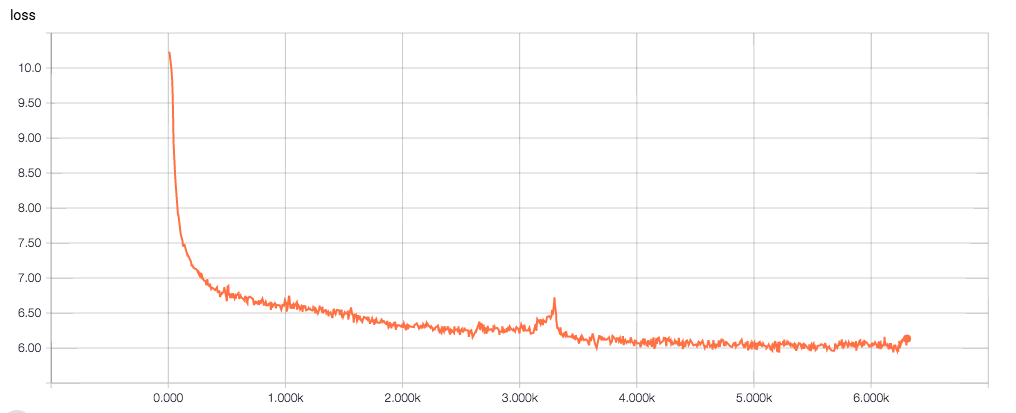
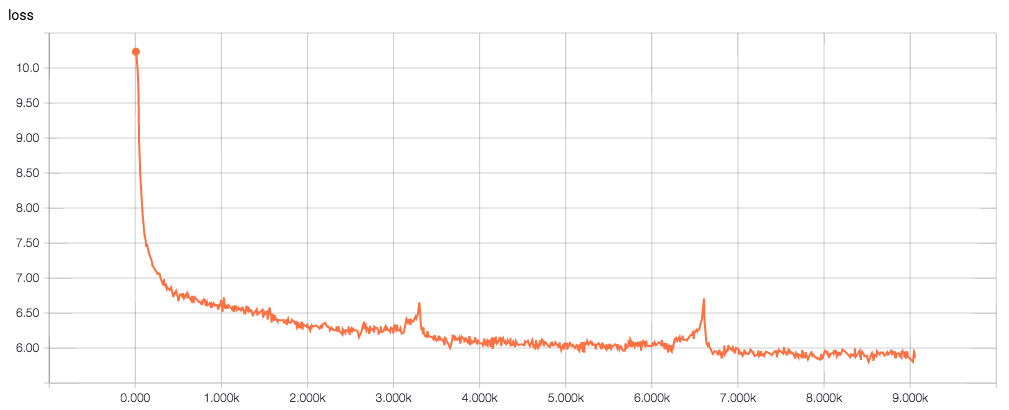
Training update

diff --git a/model.py b/model.py
@@ -88,8 +88,9 @@ def glu(kernel_shape, layer_input, layer_name, residual=None):
     stddev = np.sqrt(2.0 / (kernel_shape[1] * kernel_shape[2]))
 
     # First conv layer
+    W_g = tf.Variable(stddev, dtype=tf.float32)
     W_v = tf.Variable(tf.random_normal(kernel_shape, stddev=stddev), name="W%s" % layer_name)
-    W = tf.Variable(stddev, dtype=tf.float32) * W_v / tf.nn.l2_normalize(W_v, 0)
+    W =  (W_g / tf.nn.l2_normalize(W_v, 0)) * W_v
     b = tf.Variable(tf.zeros([kernel_shape[2] * kernel_shape[3]]), name="b%s" % layer_name)
     conv1 = tf.nn.depthwise_conv2d(
         padded_input,
@@ -100,8 +101,9 @@ def glu(kernel_shape, layer_input, layer_name, residual=None):
     conv1 = tf.nn.bias_add(conv1, b)
 
     # Second gating sigmoid layer
+    V_g = tf.Variable(stddev, dtype=tf.float32)
     V_v = tf.Variable(tf.random_normal(kernel_shape, stddev=stddev), name="V%s" % layer_name)
-    V = tf.Variable(stddev, dtype=tf.float32) * V_v / tf.nn.l2_normalize(V_v, 0)
+    V = (V_g / tf.nn.l2_normalize(V_v, 0)) * V_v
     c = tf.Variable(tf.zeros([kernel_shape[2] * kernel_shape[3]]), name="c%s" % layer_name)
     conv2 = tf.nn.depthwise_conv2d(
         padded_input,
@@ -164,11 +166,11 @@ def setup_model(vocab_mapping, epoch_steps):
    # Todo: sampled softmax for larger vocabularies
    # losses = tf.nn.sampled_softmax_loss(output_weights, output_bias, last_hidden, labels, candidates, vocab_size, num_true=1, partition_strategy='mod', name='ssl')
 
-    logits = tf.matmul(last_hidden, tf.transpose(output_weights)) + output_bias
-    full_probs = tf.nn.softmax(logits) # adds to 1, for each word
+    multiplied = tf.matmul(last_hidden, tf.transpose(output_weights)) + output_bias
+    logits = tf.nn.softmax(multiplied) # adds to 1, for each word
     rows = tf.expand_dims(tf.constant(range(0, minibatch_size * (sequence_length - 1))), 1)
     indices = tf.concat(1, [rows, labels])
-    probs = tf.gather_nd(full_probs, indices)
+    probs = tf.gather_nd(logits, indices)
     losses = -tf.log(probs)
     loss = tf.reduce_mean(losses)
     perplexity = tf.exp(loss)

diff --git a/readme.md b/readme.md
@@ -36,10 +36,12 @@ The validation process continually loads the latest training weights as both pro
   Moving forward, there are some likely some interesting experiments to be done around various kernel width/layer depth permutations for identical effective context sizes.
  
 ## Performance: 
-In 600k steps, this is able to achieve a test perplexity of 425 Wikitext-2. Below is the validation loss over time:
+In 900k steps, this is able to achieve a test perplexity of 350 Wikitext-2. SOTA is 68.9 (unknown number of steps)[2]. Below is the validation loss over time:
 ![x](https://raw.githubusercontent.com/astanway/gated-conv-nets/master/validation_loss.png)
 
 
 [0] https://arxiv.org/pdf/1609.04309v2.pdf
 
 [1] https://arxiv.org/pdf/1602.07868v3.pdf
+
+[2] https://openreview.net/pdf?id=B184E5qee
